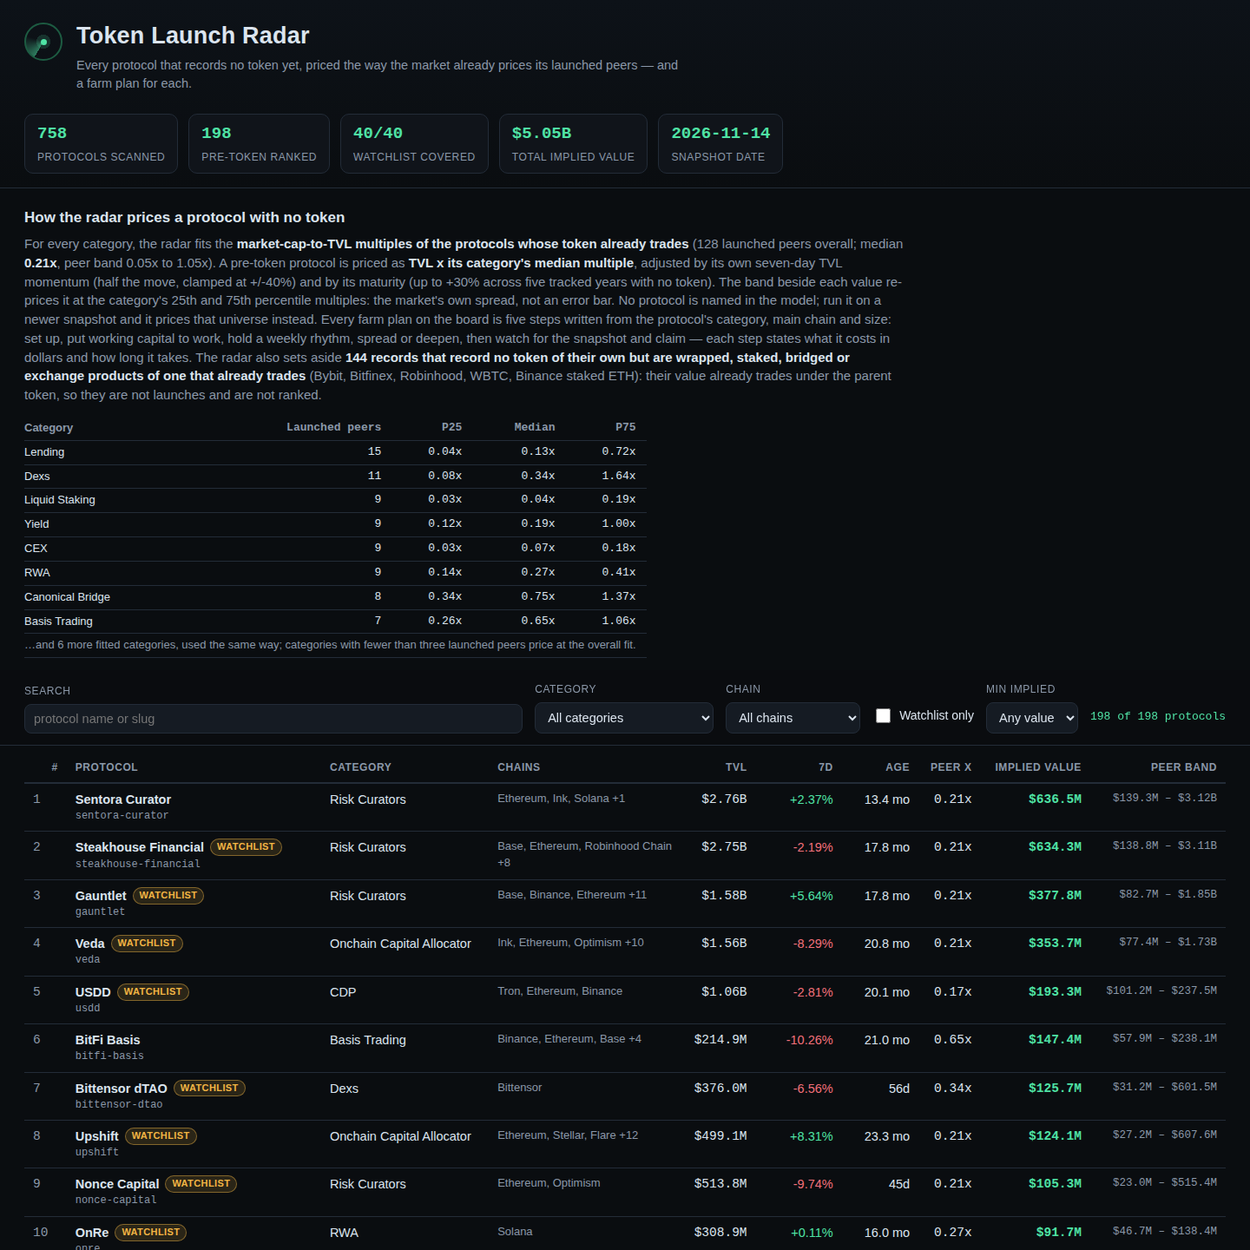
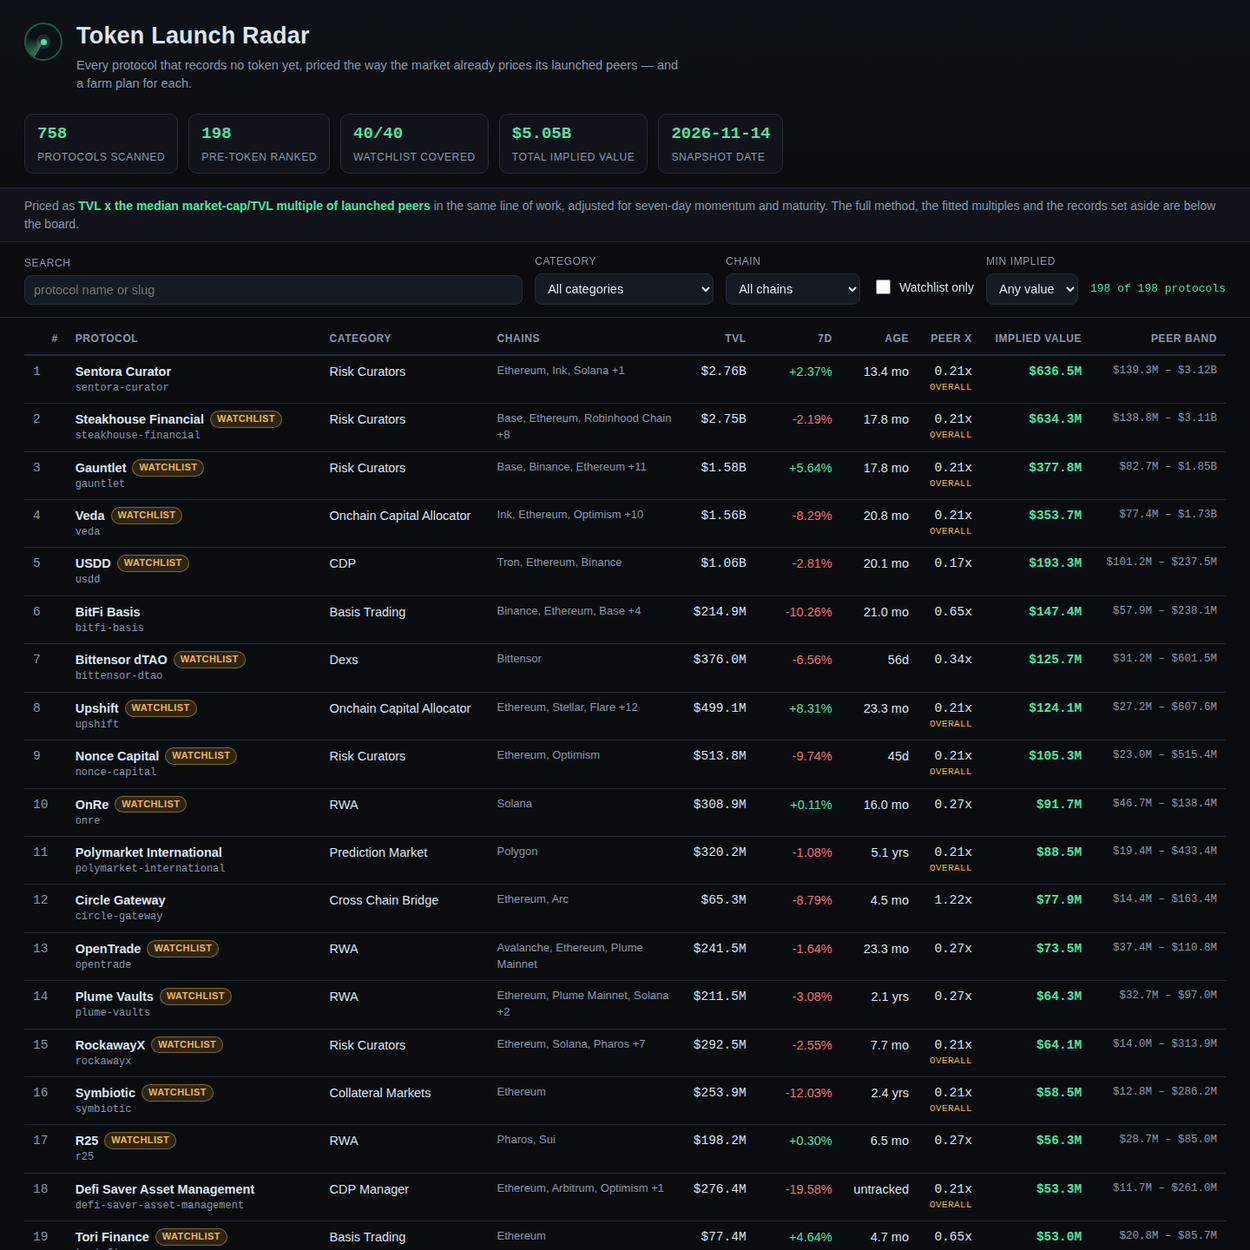
Critic fixes: farm-plan totals summed from itemised costs, OVERALL fallback marking, split set-aside with audit table, detail close button, snapshot chain gas names, method below the board

diff --git a/lib/model.ts b/lib/model.ts
@@ -57,6 +57,8 @@ export interface Valuation {
   implied: number;
   impliedLow: number;
   impliedHigh: number;
+  /** The fit that priced this row: a category (or shared) fit's name, or 'All categories' for the overall fallback. */
+  fitName: string;
 }
 
 export interface BoardRow {
@@ -94,7 +96,11 @@ export interface RadarData {
   source: string;
   floor_usd: number;
   counts: { protocols: number; preToken: number; watchlist: number; rows: number; live: number };
-  setAside: { count: number; examples: string[] };
+  setAside: {
+    products: { count: number; examples: string[] };
+    exchanges: { count: number; examples: string[] };
+    rows: { name: string; category: string | null; tvl_usd: number; reason: string }[];
+  };
   totalImplied: number;
   fits: CategoryFit[];
   globalFit: CategoryFit;
@@ -135,11 +141,21 @@ const VERSION_SUFFIX = /\s(V\d+(\.\d+)?|v\d+(\.\d+)?|\d+\.\d+)$/;
  * product categories, a version marker or a wrapped/staked word in the
  * name, or an exchange's name at the front of it.
  */
+/** Why a record is set aside, in the page's own words, or null when it is a genuine launch candidate. */
+export function tradedProductReason(p: Protocol): string | null {
+  if (p.category === 'CEX' || EXCHANGE_NAMES.some((x) => p.name === x || p.name.startsWith(`${x} `))) {
+    return 'exchange record — an exchange\u2019s own listing is not a protocol launch';
+  }
+  if (p.category !== null && PRODUCT_CATEGORIES.has(p.category)) {
+    return `${p.category.toLowerCase()} product of a token that already trades`;
+  }
+  if (/\b(wrapped|staked|staking)\b/i.test(p.name)) return 'wrapped or staked product, by its name';
+  if (VERSION_SUFFIX.test(p.name)) return 'a versioned record of another protocol';
+  return null;
+}
+
 export function isTradedProduct(p: Protocol): boolean {
-  if (p.category !== null && PRODUCT_CATEGORIES.has(p.category)) return true;
-  if (VERSION_SUFFIX.test(p.name)) return true;
-  if (/\b(wrapped|staked|staking)\b/i.test(p.name)) return true;
-  return EXCHANGE_NAMES.some((x) => p.name === x || p.name.startsWith(`${x} `));
+  return tradedProductReason(p) !== null;
 }
 
 // ---------------------------------------------------------------- fitting
@@ -165,9 +181,21 @@ function fitOf(category: string, ratios: number[]): CategoryFit {
 }
 
 /**
+ * The fit group a category prices under: its own name. A category with
+ * fewer than three launched peers prices at the overall fit instead, and
+ * the board marks those rows "overall" — a thin three-peer median would
+ * be a weaker claim than the 128-peer overall one, not a stronger one.
+ */
+export function fitGroupOf(category: string | null): string {
+  return category ?? 'Uncategorised';
+}
+
+/**
  * Fit the market-cap/TVL multiples of the already-launched protocols, per
  * category and overall. Categories with fewer than three traded peers fall
- * back to the overall fit when a protocol is priced.
+ * back to the overall fit when a protocol is priced. The overall fit is
+ * winsorised at its own 5th and 95th percentiles first, so one mispriced
+ * micro-cap cannot stretch the band every fallback row displays.
  */
 export function peerMultiples(protocols: Protocol[]): { byCategory: Map<string, CategoryFit>; global: CategoryFit } {
   const groups = new Map<string, number[]>();
@@ -176,7 +204,7 @@ export function peerMultiples(protocols: Protocol[]): { byCategory: Map<string, 
     if (recordsNoToken(p) || p.mcap_usd === null || p.mcap_usd <= 0 || p.tvl_usd <= 0) continue;
     const ratio = p.mcap_usd / p.tvl_usd;
     if (!Number.isFinite(ratio) || ratio <= 0) continue;
-    const key = p.category ?? 'Uncategorised';
+    const key = fitGroupOf(p.category);
     const list = groups.get(key);
     if (list) list.push(ratio);
     else groups.set(key, [ratio]);
@@ -186,7 +214,11 @@ export function peerMultiples(protocols: Protocol[]): { byCategory: Map<string, 
   for (const [category, ratios] of groups) {
     if (ratios.length >= 3) byCategory.set(category, fitOf(category, ratios));
   }
-  return { byCategory, global: fitOf('All categories', all) };
+  const sortedAll = [...all].sort((a, b) => a - b);
+  const lo = quantile(sortedAll, 0.05);
+  const hi = quantile(sortedAll, 0.95);
+  const winsorised = all.map((r) => Math.min(hi, Math.max(lo, r)));
+  return { byCategory, global: fitOf('All categories', winsorised) };
 }
 
 // ---------------------------------------------------------------- valuation
@@ -212,7 +244,7 @@ const clamp = (n: number, lo: number, hi: number): number => Math.min(hi, Math.m
  * disagreement about the category, not a made-up error bar.
  */
 export function valueProtocol(p: Protocol, fits: { byCategory: Map<string, CategoryFit>; global: CategoryFit }, asOf: string): Valuation {
-  const fit = (p.category !== null ? fits.byCategory.get(p.category) : undefined) ?? fits.global;
+  const fit = fits.byCategory.get(fitGroupOf(p.category)) ?? fits.global;
   const growth = clamp(p.change_7d ?? 0, -40, 40);
   const momentumMult = 1 + growth / 200;
   const ageDays = ageInDays(p.listed_at, asOf);
@@ -228,6 +260,7 @@ export function valueProtocol(p: Protocol, fits: { byCategory: Map<string, Categ
     implied: price(fit.median),
     impliedLow: price(fit.p25),
     impliedHigh: price(fit.p75),
+    fitName: fit.category,
   };
 }
 
@@ -239,11 +272,14 @@ export function usd(n: number): string {
   return `$${s.replace(/\B(?=(\d{3})+(?!\d))/g, ',')}`;
 }
 
-/** Rough per-session gas in dollars for the chains the snapshot names most; anything else prices as a cheap L2. */
+/** Rough per-session gas in dollars, keyed by the chain names the snapshot itself uses; an unlisted chain prices at the $2 L2-class fallback in gasFor(). */
 const GAS_BY_CHAIN: Record<string, number> = {
-  Ethereum: 25, Solana: 1, Base: 1, Arbitrum: 1, Optimism: 1, BSC: 1, Polygon: 1,
-  Avalanche: 3, Fantom: 1, Gnosis: 1, zkSync: 1, Linea: 1, Scroll: 1, Mantle: 1,
-  Blast: 1, Berachain: 2, Sonic: 1, Hyperliquid: 1, Sui: 1, Aptos: 1, Tron: 2,
+  Ethereum: 25, Bitcoin: 5, Solana: 1, Binance: 1, Base: 1, 'Hyperliquid L1': 1,
+  Arbitrum: 1, Sui: 1, Tron: 2, Stellar: 1, Monad: 1, Flare: 1, Avalanche: 3,
+  Polygon: 1, 'Robinhood Chain': 1, TON: 1, Near: 1, Ripple: 1, Berachain: 2,
+  Cronos: 1, Starknet: 1, Algorand: 1, RSK: 2, Mantle: 1, Bittensor: 2, Ink: 1,
+  xDai: 1, Optimism: 1, Sei: 1, Cardano: 2, 'zkSync Era': 1, Aptos: 1, Plasma: 1,
+  Linea: 1, Scroll: 1, Blast: 1, Sonic: 1, Hedera: 1, Injective: 1, Kava: 1,
 };
 
 function gasFor(chain: string): number {
@@ -313,16 +349,26 @@ export function farmPlan(p: Protocol, ageDays: number | null): string[] {
   const gas = gasFor(chain);
   const capital = capitalFor(p.tvl_usd);
   const weeks = ageDays === null ? 12 : clamp(18 - Math.floor(ageDays / 180), 6, 16);
-  const fees = gas * (weeks + 4);
   const others = p.chains.slice(1, 3);
+  // Every fee a step names is collected here first, so the closing total is
+  // the sum of the plan's own itemised costs — never a second formula.
+  const setupFee = gas * 2;
+  const openFee = gas;
+  const rhythmFees = gas * weeks;
+  const spreadFees = others.length * gas * 2;
+  const spreadCapital = others.length * Math.round(capital / 2);
+  const deepenFee = gas;
+  const deepenCapital = Math.round(capital / 2);
+  const totalFees = setupFee + openFee + rhythmFees + (others.length > 0 ? spreadFees : deepenFee);
+  const totalCapital = capital + (others.length > 0 ? spreadCapital : deepenCapital);
   const steps: string[] = [
-    `Set up on ${chain}: open ${p.name} in a fresh wallet kept only for farming and fund it with about ${usd(gas * 4)} for gas plus the working capital below. Cost: about ${usd(gas * 2)} in funding and bridge fees, once. Time: under an hour on day one.`,
-    `Put ${usd(capital)} to work in ${p.name}: ${CORE_ACTION[family]}. Cost: the ${usd(capital)} stays yours and withdrawable; about ${usd(gas)} of gas to open. Time: about 20 minutes.`,
-    `Hold the rhythm for ${weeks} weeks: ${CADENCE[family]}. Cost: about ${usd(gas)} a week in gas, ${usd(gas * weeks)} across the campaign. Time: about 15 minutes a week.`,
+    `Set up on ${chain}: open ${p.name} in a fresh wallet kept only for farming and fund it with about ${usd(gas * 4)} for gas plus the working capital below. Cost: about ${usd(setupFee)} in funding and bridge fees, once. Time: under an hour on day one.`,
+    `Put ${usd(capital)} to work in ${p.name}: ${CORE_ACTION[family]}. Cost: the ${usd(capital)} stays yours and withdrawable; about ${usd(openFee)} of gas to open. Time: about 20 minutes.`,
+    `Hold the rhythm for ${weeks} weeks: ${CADENCE[family]}. Cost: about ${usd(gas)} a week in gas, ${usd(rhythmFees)} across the campaign. Time: about 15 minutes a week.`,
     others.length > 0
-      ? `Spread to ${others.join(' and ')} once the first position is a month old: repeat the core action there at half size. Multi-chain use is the cheapest proof you are a real user. Cost: one bridge fee of about ${usd(gas * 2)} per extra chain. Time: one extra session.`
-      : `Deepen on ${chain} instead of spreading: open a second, different position type in ${p.name} at half the first one's size, so the wallet shows range, not one repeated click. Cost: about ${usd(gas)} of gas. Time: one extra session.`,
-    `From week ${Math.max(1, weeks - 2)}, check ${p.name}'s official channels weekly for a points program, snapshot or token announcement and keep every position live until any claim window closes; save each transaction hash as your eligibility record. Total campaign cost: about ${usd(fees)} in fees over ${weeks} weeks, plus ${usd(capital)} of working capital.`,
+      ? `Spread to ${others.join(' and ')} once the first position is a month old: repeat the core action there at half size, ${usd(Math.round(capital / 2))} of working capital per extra chain. Multi-chain use is the cheapest proof you are a real user. Cost: one bridge fee of about ${usd(gas * 2)} per extra chain, ${usd(spreadFees)} in all. Time: one extra session.`
+      : `Deepen on ${chain} instead of spreading: open a second, different position type in ${p.name} with ${usd(deepenCapital)} more working capital, so the wallet shows range, not one repeated click. Cost: about ${usd(deepenFee)} of gas. Time: one extra session.`,
+    `From week ${Math.max(1, weeks - 2)}, check ${p.name}'s official channels weekly for a points program, snapshot or token announcement and keep every position live until any claim window closes; save each transaction hash as your eligibility record. Total campaign cost: about ${usd(totalFees)} in fees over ${weeks} weeks, plus ${usd(totalCapital)} of working capital.`,
   ];
   return steps;
 }
@@ -393,10 +439,19 @@ export function buildRadar(snapshot: Snapshot): Built {
       rows: board.length,
       live: snapshot.protocols.filter((p) => !recordsNoToken(p)).length,
     },
-    setAside: {
-      count: aside.length,
-      examples: [...aside].sort((a, b) => b.tvl_usd - a.tvl_usd).slice(0, 5).map((p) => p.name),
-    },
+    setAside: (() => {
+      const withReason = aside.map((p) => ({ p, reason: tradedProductReason(p)! }));
+      const exchanges = withReason.filter((x) => x.reason.startsWith('exchange record'));
+      const products = withReason.filter((x) => !x.reason.startsWith('exchange record'));
+      const top = (xs: { p: Protocol }[]): string[] => [...xs].sort((a, b) => b.p.tvl_usd - a.p.tvl_usd).slice(0, 4).map((x) => x.p.name);
+      return {
+        products: { count: products.length, examples: top(products) },
+        exchanges: { count: exchanges.length, examples: top(exchanges) },
+        rows: withReason
+          .sort((a, b) => b.p.tvl_usd - a.p.tvl_usd)
+          .map((x) => ({ name: x.p.name, category: x.p.category, tvl_usd: x.p.tvl_usd, reason: x.reason })),
+      };
+    })(),
     totalImplied: scored.reduce((sum, r) => sum + r.implied, 0),
     fits: fitList,
     globalFit: fits.global,

diff --git a/dashboard/app.js b/dashboard/app.js
@@ -53,16 +53,20 @@ function renderStats() {
 
 function renderMethod() {
   const g = R.globalFit;
+  const sa = R.setAside;
+  $('modelStrip').innerHTML =
+    `Priced as <b>TVL x the median market-cap/TVL multiple of launched peers</b> in the same line of work, ` +
+    `adjusted for seven-day momentum and maturity. The full method, the fitted multiples and the records set aside are below the board.`;
   $('methodText').innerHTML =
     `For every category, the radar fits the <b>market-cap-to-TVL multiples of the protocols whose token already trades</b> ` +
-    `(${g.peers} launched peers overall; median <b>${g.median.toFixed(2)}x</b>, peer band ${g.p25.toFixed(2)}x to ${g.p75.toFixed(2)}x). ` +
-    `A pre-token protocol is priced as <b>TVL x its category's median multiple</b>, adjusted by its own seven-day TVL momentum ` +
-    `(half the move, clamped at +/-40%) and by its maturity (up to +30% across five tracked years with no token). ` +
-    `The band beside each value re-prices it at the category's 25th and 75th percentile multiples: the market's own spread, not an error bar. ` +
+    `(${g.peers} launched peers overall; median <b>${g.median.toFixed(2)}x</b>, peer band ${g.p25.toFixed(2)}x to ${g.p75.toFixed(2)}x, winsorised at the 5th-95th percentile so one mispriced micro-cap cannot stretch it). ` +
+    `A pre-token protocol is priced as <b>TVL x its category's median multiple where that category has launched peers — the overall median otherwise</b> (the board marks those rows "overall"), ` +
+    `adjusted by its own seven-day TVL momentum (half the move, clamped at +/-40%) and by its maturity (up to +30% across five tracked years with no token). ` +
+    `The band beside each value re-prices it at the fit's 25th and 75th percentile multiples: the market's own spread, not an error bar. ` +
     `No protocol is named in the model; run it on a newer snapshot and it prices that universe instead. ` +
-    `Every farm plan on the board is five steps written from the protocol's category, main chain and size: set up, put working capital to work, hold a weekly rhythm, spread or deepen, then watch for the snapshot and claim — each step states what it costs in dollars and how long it takes. ` +
-    `The radar also sets aside <b>${R.setAside.count} records that record no token of their own but are wrapped, staked, bridged or exchange products of one that already trades</b> ` +
-    `(${R.setAside.examples.map(esc).join(', ')}): their value already trades under the parent token, so they are not launches and are not ranked.`;
+    `Every farm plan on the board is five steps written from the protocol's category, main chain and size: set up, put working capital to work, hold a weekly rhythm, spread or deepen, then watch for the snapshot and claim — each step states what it costs in dollars and how long it takes, and the closing total is the sum of the plan's own itemised costs. ` +
+    `The radar sets aside <b>${sa.products.count} wrapped, staked or bridged products of a token that already trades</b> (${sa.products.examples.map(esc).join(', ')}): their value already trades under the parent token. ` +
+    `It also sets aside <b>${sa.exchanges.count} exchange records</b> (${sa.exchanges.examples.map(esc).join(', ')}): an exchange's own listing is not a protocol launch. Every set-aside is listed with its reason below.`;
   const head = '<tr><th>Category</th><th class="num">Launched peers</th><th class="num">P25</th><th class="num">Median</th><th class="num">P75</th></tr>';
   const shown = R.fits.slice(0, 8);
   const body = shown.map((f) =>
@@ -117,22 +121,22 @@ function renderBoard() {
       <td class="num money">${fmtMoney(r.tvl_usd)}</td>
       <td class="num">${fmtPct(r.change_7d)}</td>
       <td class="num">${fmtAge(r.ageDays)}</td>
-      <td class="num money">${r.multiple.toFixed(2)}x</td>
+      <td class="num money">${r.multiple.toFixed(2)}x${r.fitName === 'All categories' ? '<span class="overall">OVERALL</span>' : ''}</td>
       <td class="num imp">${fmtMoney(r.implied)}</td>
       <td class="num band">${fmtMoney(r.impliedLow)} – ${fmtMoney(r.impliedHigh)}</td>
     </tr>`).join('');
   for (const tr of $('boardBody').querySelectorAll('tr')) {
-    tr.addEventListener('click', () => openDetail(tr.dataset.slug, true));
+    tr.addEventListener('click', () => openDetail(tr.dataset.slug));
   }
 }
 
 // ------------------------------------------------------------- detail
 
-function openDetail(slug, scroll) {
+function openDetail(slug) {
   const r = R.rows.find((x) => x.slug === slug);
   if (!r) return;
   state.selected = slug;
-  const fit = R.fits.find((f) => f.category === (r.category ?? '')) || R.globalFit;
+  const fit = R.fits.find((f) => f.category === r.fitName) || R.globalFit;
   const d = $('detail');
   d.hidden = false;
   d.innerHTML = `
@@ -142,13 +146,14 @@ function openDetail(slug, scroll) {
         <span class="sub">${esc(r.slug)} · ${esc(r.category ?? 'Uncategorised')} · tracked since ${r.listed_at ?? 'an unrecorded date'}</span>
       </div>
       <div class="detail-imp"><b>${fmtFull(r.implied)}</b><i>implied value if it launched today</i></div>
+      <button class="closebtn" id="detailClose" type="button">Close</button>
     </div>
     <div class="detail-grid">
       <div>
         <h3>How the value is built</h3>
         <table class="breakdown">
           <tr><td>Total value locked (snapshot)</td><td class="num">${fmtFull(r.tvl_usd)}</td></tr>
-          <tr><td>Peer multiple (${fit.category === 'All categories' ? `overall median of ${fit.peers} launched peers — ${esc(r.category ?? 'this category')} has too few launched peers to fit alone` : `median of ${fit.peers} launched ${esc(fit.category)} peers`})</td><td class="num">x ${r.multiple.toFixed(3)}</td></tr>
+          <tr><td>Peer multiple (${fit.category === 'All categories' ? `overall median of ${fit.peers} launched peers — ${esc(r.category ?? 'this category')} has too few launched peers to fit alone` : `median of ${fit.peers} launched ${esc(fit.category)} peers${fit.category !== (r.category ?? '') ? ` — ${esc(r.category ?? '')} prices under the shared ${esc(fit.category)} fit` : ''}`})</td><td class="num">x ${r.multiple.toFixed(3)}</td></tr>
           <tr><td>Seven-day momentum (${r.change_7d === null ? 'unreported' : r.change_7d.toFixed(2) + '%'}, half weight)</td><td class="num">x ${r.momentumMult.toFixed(3)}</td></tr>
           <tr><td>Maturity (${fmtAge(r.ageDays)} tracked, no token)</td><td class="num">x ${r.maturityMult.toFixed(3)}</td></tr>
           <tr class="total"><td>Implied value</td><td class="num">${fmtFull(r.implied)}</td></tr>
@@ -159,7 +164,7 @@ function openDetail(slug, scroll) {
           <dt>Chains</dt><dd>${esc(r.chains.join(', ') || 'none recorded')}</dd>
           <dt>TVL change, 7d</dt><dd>${r.change_7d === null ? 'unreported' : r.change_7d.toFixed(2) + '%'}</dd>
           <dt>Token</dt><dd>none recorded in the snapshot</dd>
-          <dt>Watchlist</dt><dd>${r.watchlist ? 'yes — on the house list, at or above the ' + fmtMoney(R.floor_usd) + ' floor' : 'not on the house list (it also applies parent-protocol rules the snapshot does not carry); the radar ranks it anyway'}</dd>
+          <dt>Watchlist</dt><dd>${r.watchlist ? 'yes — on the house list, at or above the ' + fmtMoney(R.floor_usd) + ' floor' : 'not on the house list — the house list also applies parent-protocol rules the snapshot does not carry; the radar ranks it anyway'}</dd>
         </dl>
       </div>
       <div>
@@ -167,8 +172,14 @@ function openDetail(slug, scroll) {
         <ol class="steps">${r.farm_steps.map((s) => `<li>${esc(s)}</li>`).join('')}</ol>
       </div>
     </div>`;
+  $('detailClose').addEventListener('click', closeDetail);
   renderBoardSelection();
-  if (scroll) d.scrollIntoView({ behavior: 'smooth', block: 'start' });
+}
+
+function closeDetail() {
+  $('detail').hidden = true;
+  state.selected = null;
+  renderBoardSelection();
 }
 
 function renderBoardSelection() {
@@ -185,6 +196,13 @@ function renderLive() {
     `<tr><td>${esc(p.name)}</td><td>${esc(p.symbol ?? '—')}</td><td>${esc(p.category ?? 'Uncategorised')}</td>` +
     `<td class="num">${fmtMoney(p.tvl_usd)}</td><td class="num">${fmtMoney(p.mcap_usd)}</td><td class="num">${p.ratio.toFixed(2)}x</td></tr>`).join('');
   $('liveTable').innerHTML = head + body;
+}
+
+function renderAside() {
+  const head = '<tr><th>Record</th><th>Category</th><th class="num">TVL</th><th>Why it is not ranked</th></tr>';
+  const body = R.setAside.rows.map((x) =>
+    `<tr><td>${esc(x.name)}</td><td>${esc(x.category ?? 'Uncategorised')}</td><td class="num">${fmtMoney(x.tvl_usd)}</td><td>${esc(x.reason)}</td></tr>`).join('');
+  $('asideTable').innerHTML = head + body;
 }
 
 // ------------------------------------------------------------- wiring
@@ -205,7 +223,7 @@ function applyHash() {
   if (h.get('watch') === '1') $('watchOnly').checked = true;
   if (h.get('q')) $('q').value = h.get('q');
   renderBoard();
-  if (h.get('detail')) openDetail(h.get('detail'), false);
+  if (h.get('detail')) openDetail(h.get('detail'));
 }
 
 function init() {
@@ -213,6 +231,8 @@ function init() {
   renderMethod();
   fillFilters();
   renderLive();
+  renderAside();
+  document.addEventListener('keydown', (e) => { if (e.key === 'Escape') closeDetail(); });
   $('footSource').textContent = `Data: ${R.source}. The board is regenerated from that sealed snapshot on every run of the program; nothing here is fetched live.`;
   for (const id of ['q', 'cat', 'chain', 'watchOnly', 'minImp']) {
     $(id).addEventListener('input', renderBoard);

diff --git a/dashboard/index.html b/dashboard/index.html
@@ -18,11 +18,7 @@
   <div class="mast-stats" id="mastStats"></div>
 </header>
 
-<section class="method" id="method">
-  <h2>How the radar prices a protocol with no token</h2>
-  <p id="methodText"></p>
-  <div class="fits-wrap"><table class="fits" id="fitsTable"></table></div>
-</section>
+<p class="strip" id="modelStrip"></p>
 
 <section class="controls" id="controls">
   <label class="ctl grow">Search <input type="search" id="q" placeholder="protocol name or slug"></label>
@@ -51,10 +47,22 @@
     <tbody id="boardBody"></tbody>
   </table>
 
+  <section class="method" id="method">
+    <h2>How the radar prices a protocol with no token</h2>
+    <p id="methodText"></p>
+    <div class="fits-wrap"><table class="fits" id="fitsTable"></table></div>
+  </section>
+
   <section class="live">
     <h2>Already trading — the peers the model is fitted on</h2>
     <p class="live-note">These protocols already have a token, so they are not on the board. Their market-cap-to-TVL ratios, grouped by category, are what prices the board above.</p>
     <div class="fits-wrap"><table class="fits" id="liveTable"></table></div>
+  </section>
+
+  <section class="live">
+    <h2>Set aside — records the radar does not rank, and why</h2>
+    <p class="live-note">Every record below records no token of its own in the snapshot, and none of them is ranked: each is a product of a token that already trades, or an exchange's own record. The rule that caught each one is stated beside it, so the exclusion can be audited, not just trusted.</p>
+    <div class="fits-wrap"><table class="fits" id="asideTable"></table></div>
   </section>
 </main>
 

diff --git a/dashboard/app.css b/dashboard/app.css
@@ -45,7 +45,18 @@ h1 { margin: 0; font-size: 27px; letter-spacing: .2px; }
 }
 .stat b { display: block; font-family: var(--mono); font-size: 19px; color: var(--signal); font-weight: 600; }
 .stat i { font-style: normal; color: var(--muted); font-size: 12px; text-transform: uppercase; letter-spacing: .6px; }
-.method { padding: 16px 28px 4px; max-width: 1180px; }
+.strip {
+  margin: 0; padding: 10px 28px; color: var(--muted); font-size: 14px;
+  border-bottom: 1px solid var(--line); background: var(--panel);
+}
+.strip b { color: var(--signal); font-weight: 600; }
+.method { padding: 16px 0 4px; max-width: 1180px; }
+.closebtn {
+  background: var(--panel-2); color: var(--text); border: 1px solid var(--line);
+  border-radius: 8px; padding: 6px 13px; font-size: 13px; cursor: pointer; flex: none;
+}
+.closebtn:hover { border-color: var(--signal-dim); color: var(--signal); }
+td .overall { color: var(--amber); font-size: 11px; display: block; letter-spacing: .4px; }
 .method h2, .live h2 { font-size: 17px; margin: 6px 0 6px; }
 .method p { color: var(--muted); margin: 0 0 10px; max-width: 1020px; }
 .method p b { color: var(--text); font-weight: 600; }
